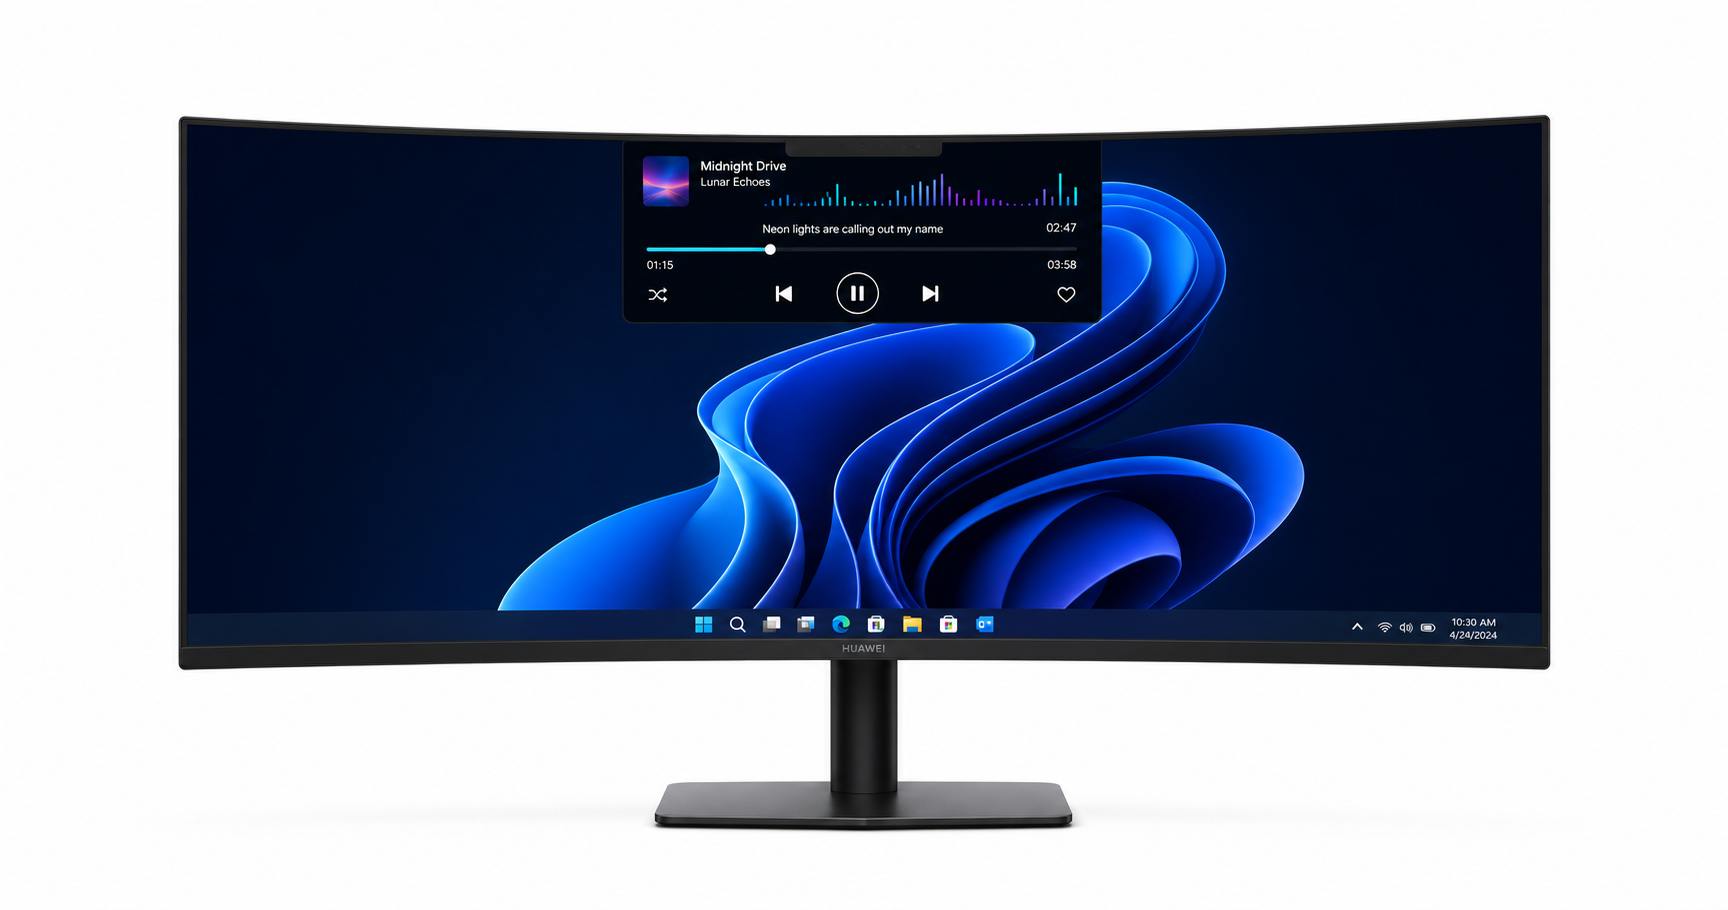
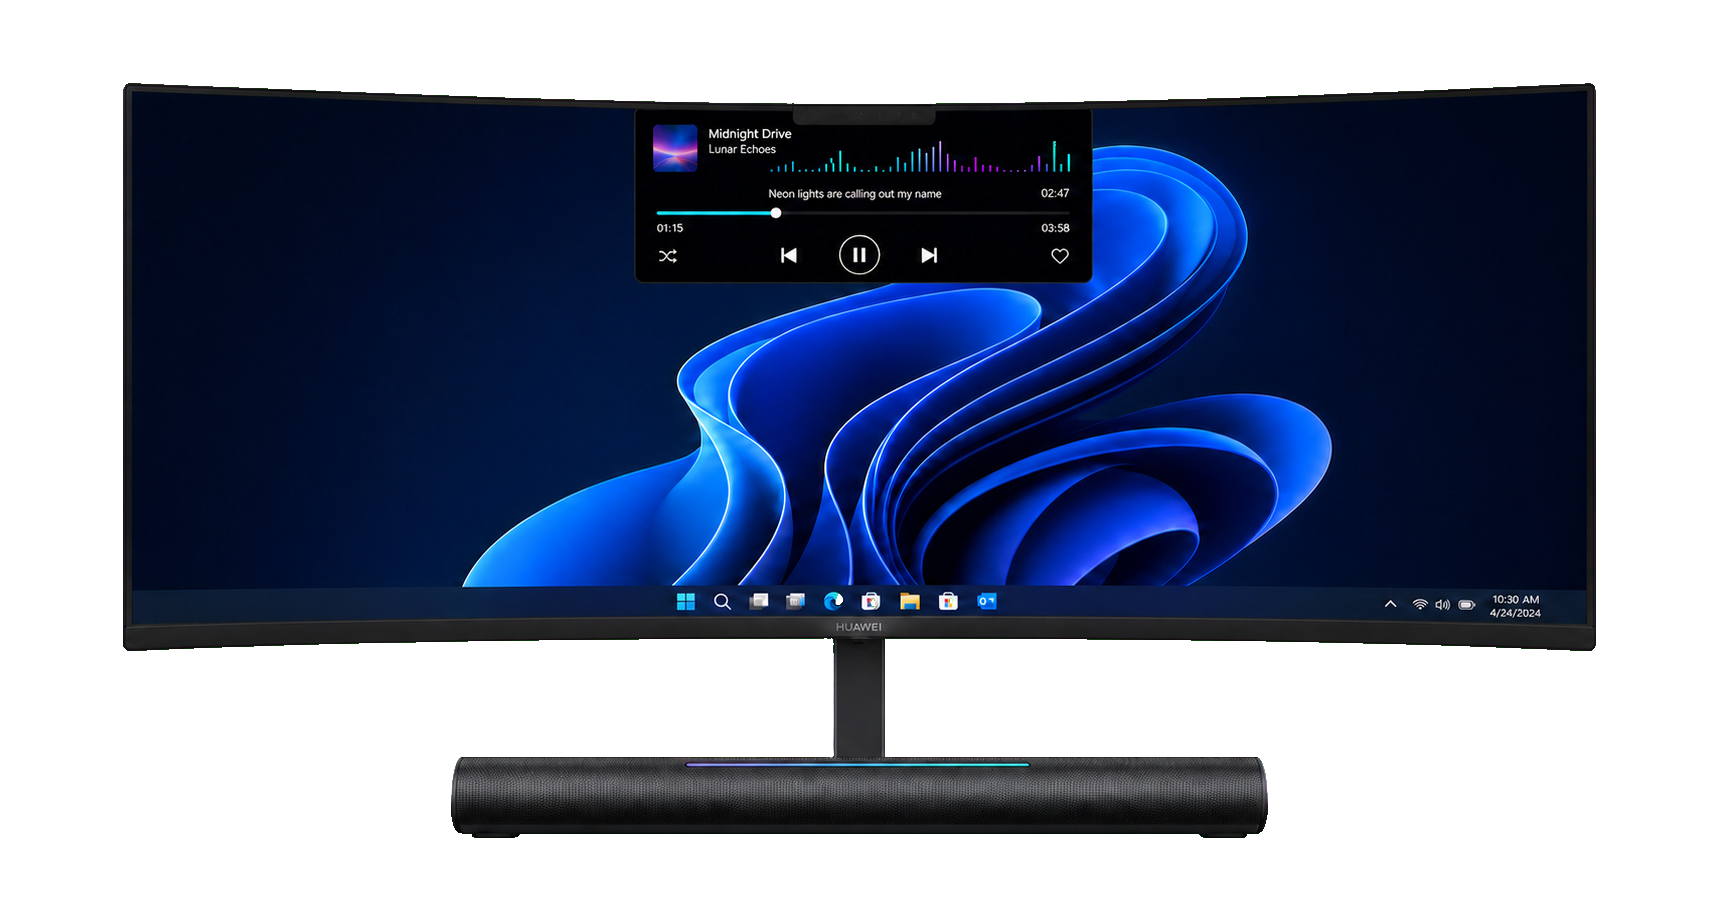
Integrate transparent monitor cutout with soundbar base

Changed region(s): [[0.0615, 0.0923, 0.9536, 0.9231]]

diff --git a/windows-notch/styles.css b/windows-notch/styles.css
@@ -85,7 +85,7 @@ footer small{color:#888c94;border-color:#e0e1e5}
 .hero-centered .trust i{font-style:normal;color:#babcc1}
 .hero-product{width:100%;margin-top:62px;position:relative}
 .hero-product::before{display:none}
-.hero-product img{display:block;width:100%;height:auto;mix-blend-mode:multiply;filter:drop-shadow(0 28px 34px #2025301c)}
+.hero-product img{display:block;width:100%;height:auto;filter:drop-shadow(0 28px 34px #2025301c)}
 .hero-product p{margin:8px 0 32px;color:#848890;font:10px 'Space Mono';letter-spacing:.08em}
 .hero-product p i{display:inline-block;width:6px;height:6px;border-radius:50%;background:#14a8c7;margin-right:7px}
 @media(max-width:720px){.hero.hero-centered{padding-top:58px}.hero-centered h1{font-size:48px}.hero-centered .hero-copy>p{font-size:16px}.hero-centered .trust{gap:8px 12px}.hero-product{margin-top:38px;width:115%;margin-left:-7.5%}.hero-product p{font-size:8px}}